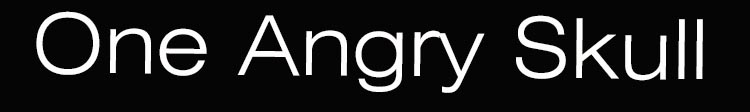
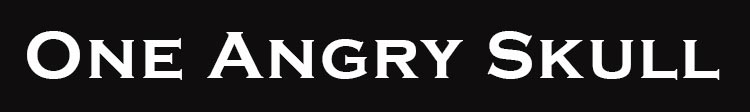
page

Changed region(s): [[0.0307, 0.1071, 0.9813, 0.8304]]

diff --git a/css/theme.css b/css/theme.css
@@ -852,7 +852,7 @@ nav .logo {
 nav .logo img {
     margin-top: -20px;
     height: 55px;
-    width: 150px;
+    width: 1500px;
    
 }
 #heddt{
@@ -978,6 +978,7 @@ nav .navigation-top > ul .left-side .logo-icon img {
     vertical-align: baseline;
     padding-top: 3px;
     width: 90px;
+    margin-top: 5px;
 }
 
 nav .navigation-top > ul > li > a {

diff --git a/header.php b/header.php
@@ -45,7 +45,9 @@
 
 	<!-- Latest compiled and minified CSS -->
 	
-	
+	<link rel="preconnect" href="https://fonts.googleapis.com">
+<link rel="preconnect" href="https://fonts.gstatic.com" crossorigin>
+<link href="https://fonts.googleapis.com/css2?family=Lora&display=swap" rel="stylesheet">
     
 	
 	<!--Google fonts-->
@@ -75,7 +77,7 @@
 	<a href="<?php bloginfo('url'); ?>" class="logo" id="headlg">
 	
 	
-		<span  id="heddt">One Angry Skull</span>
+		<span  id="heddt" style="font-family: 'Lora', serif;">One Angry Skull</span>
 	</a>
 
 	<!-- ==========  Pre navigation ========== -->
